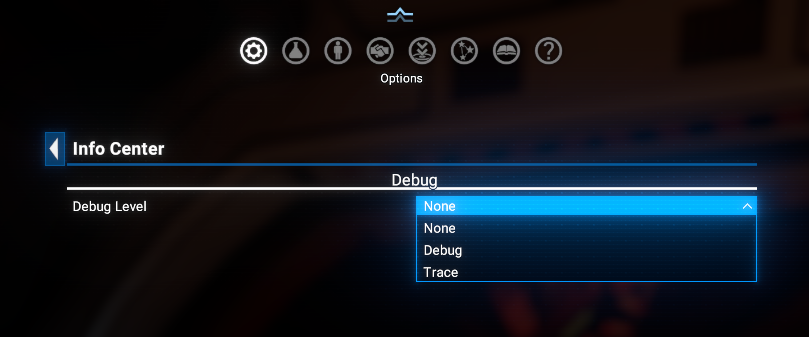
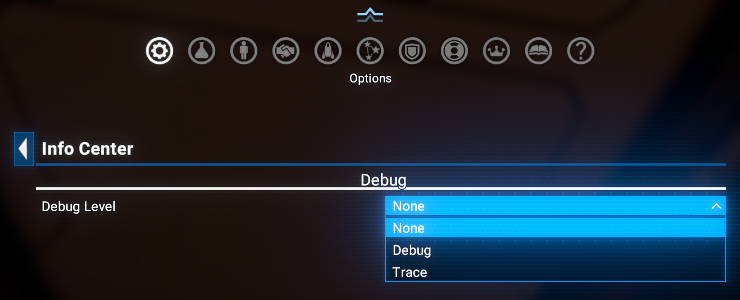
feat: version 1.01
Optional open/close hotkey, tree lists gathered on demand, logging through
Lua Log API, panel options stored the moment they change, 9.00 docs screenshots.

ui/eic_hotkey.lua: +added the Info Center open/close action through Native Hotkey API, registered only while "Open/close hotkey" is Enabled, and its Info Center sub-page on the Hotkey Management page (off by default; disabling frees the action slot and key)
ui/eic_panel.lua: +added consuming the hotkey's infomode parameters when the map returns from a submenu, so the saved panel state is not skipped; ~numFixedRows taken from rows.firstDataRow() instead of the frame table; +added C.SaveUIUserData() on every option change
ui/eic_data.lua: +added data.subordinatesOf / data.dockedShipsOf, asking the engine for a node's subordinates and docked ships only when a build needs them (memoised per build, never on flat or deployables tabs); +added the scope skip in tabCanDraw, so the Stations, Fleets and Unassigned tabs collect only their own top-level objects; -removed the eager subordinate and dock gathering for every object in data.collect
ui/eic_rows.lua, ui/eic_filters.lua: ~subordinate and docked lists read through the new accessors, and the dock list filled before vanilla reads the shared table
ui/eic_config.lua: ~Error/Debug/Trace go through Lua Log API (UIError/UIDebug/UITrace); +added the hotkeyEnabled default (false); ~getOption tolerates a missing EIC_Options before init
[…]

diff --git a/README.md b/README.md
@@ -13,6 +13,7 @@ It is written from scratch, inspired by the original `Info Center`.
 - **A search and filter row** - a search box over the names and ID codes, and dropdowns over sector, current order, ware and both skill columns, each list offering only the values the tab actually holds; a match on a docked or subordinate ship keeps its station or fleet on the list and opens it down to the hit.
 - **A right bar options panel** - ship sizes, ship roles, deployable types, display options, alternating row colour and panel width, in the map's own right sidebar, so the map and the list stay visible while you change them.
 - **Paged by default, for speed** - the list is cut into pages that fit the panel, and only the page you are on is built, so a large property costs no more to open than a small one. Switch paging off in the options for one long scrolling list instead.
+- **An optional open/close hotkey** - with the Native Hotkey API installed, one key opens the map straight on the Info Center from flight or on foot, and opens or closes the panel on the map.
 
 ## Requirements
 
@@ -21,10 +22,16 @@ It is written from scratch, inspired by the original `Info Center`.
 - [Mod Support APIs](https://www.nexusmods.com/x4foundations/mods/503) by [SirNukes](https://www.nexusmods.com/profile/sirnukes?gameId=2659) to be installed and enabled. Version `1.95` and upper is required.
 - [Options Helper](https://www.nexusmods.com/x4foundations/mods/2089), to provide the in-game Debug Level option. Version `1.10` and upper is required.
 - [Print Extension List](https://www.nexusmods.com/x4foundations/mods/2191), to record the game version and the enabled extensions in the log. Version `1.00` and upper is required.
+- [Lua Log API](https://www.nexusmods.com/x4foundations/mods/2473), which writes the panel's log messages. Version `1.01` and upper is required.
+- Optional: [Native Hotkey API](https://www.nexusmods.com/x4foundations/mods/2181), for the open/close hotkey. Version `8.00.04` and upper.
 
 ## Installation
 
 - **Nexus Mods**: [Enhanced Info Center](https://www.nexusmods.com/x4foundations/mods/1970)
+
+## Save state
+
+**No** (removing the extension does not break saves).
 
 ## Usage
 
@@ -32,7 +39,7 @@ Open the map and pick **Info Center** from the left sidebar - the entry sits rig
 
 ![Info Center](docs/images/info_center.png)
 
-The panel has a title, one. scrollable if needed, row of tab icons and the list itself. Click a tab to switch the list; the map's own next tab and previous tab input, keyboard or gamepad, steps through them as well.
+The panel has a title, one, scrollable if needed, row of tab icons and the list itself. Click a tab to switch the list; the map's own next tab and previous tab input, keyboard or gamepad, steps through them as well.
 
 ### The tabs
 
@@ -61,7 +68,7 @@ The panel has a title, one. scrollable if needed, row of tab icons and the list 
 
 - **Damaged**, **Wait for Signal**, **Failed Orders** - that same flat list under a filter: hull below full, an order waiting on the proceed signal, and an order that has failed, the last one showing what failed and the message it failed with.
   - ![Info Center: Damaged](docs/images/info_center_ships_damaged.png)
-  - ![Info Center: Wait for Signal](docs/images/info_center_ships_wait.png)
+  - ![Info Center: Wait for Signal](docs/images/info_center_wait_for_signal.png)
   - ![Info Center: Failed Orders](docs/images/info_center_ships_failed_orders.png)
 
 - **Deployables** - satellites, mines, navigation beacons, resource probes, laser towers and lockboxes. Objects that share a name are collapsed into one row carrying that name and, in the hull column, how many there are; expand it to see them individually.
@@ -141,6 +148,22 @@ Pick **Info Center Options** from the map's right sidebar. The options apply imm
 
 - **Debug Level** - `None` by default. `Debug` records what the panel does in the game log, `Trace` adds the per row detail. Needed only when reporting a problem.
 
+### Hotkey
+
+Needs the optional [Native Hotkey API](https://www.nexusmods.com/x4foundations/mods/2181). The hotkey is off by default: switch **Open/close hotkey** to `Enabled` in **Options Menu > Hotkey Management > Info Center**, then bind a key to the **Info Center** action in **Options Menu > Hotkey Management > Hotkey Bindings**.
+
+![Info Center: Hotkey Management page](docs/images/info_center_hotkey_management.png)
+
+![Info Center: Open/close hotkey enabled](docs/images/info_center_hotkey_option.png)
+
+![Info Center: Hotkey binding](docs/images/info_center_hotkey_binding.png)
+
+- In flight or on foot, the key opens the map on the Info Center.
+- On the map, it opens the Info Center panel, or closes it when it is already shown - the same as a click on its sidebar entry.
+- It does nothing while any other menu is open.
+
+Switching **Open/close hotkey** back to `Disabled` withdraws the action and frees its hotkey slot and key for other mods.
+
 ## Videos
 
 - [Enhanced Info Center - Overview](https://www.youtube.com/watch?v=UbfImFCbXtE)
@@ -159,10 +182,15 @@ Pick **Info Center Options** from the map's right sidebar. The options apply imm
 
 ## Changelog
 
-### [1.01] - 2026-08-??
+### [1.01] - 2026-11-18
 
+- **Added**
+  - An optional open/close hotkey, through the Native Hotkey API.
 - **Changed**
   - Faster list rebuilds, most noticeably on large empires and when sorting by order, skill, crew or cargo.
+  - Log messages go through the Lua Log API, now a required mod.
+- **Fixed**
+  - Panel options are stored the moment they change, so a game crash no longer loses them.
 
 ### [1.00] - 2026-08-22
 
